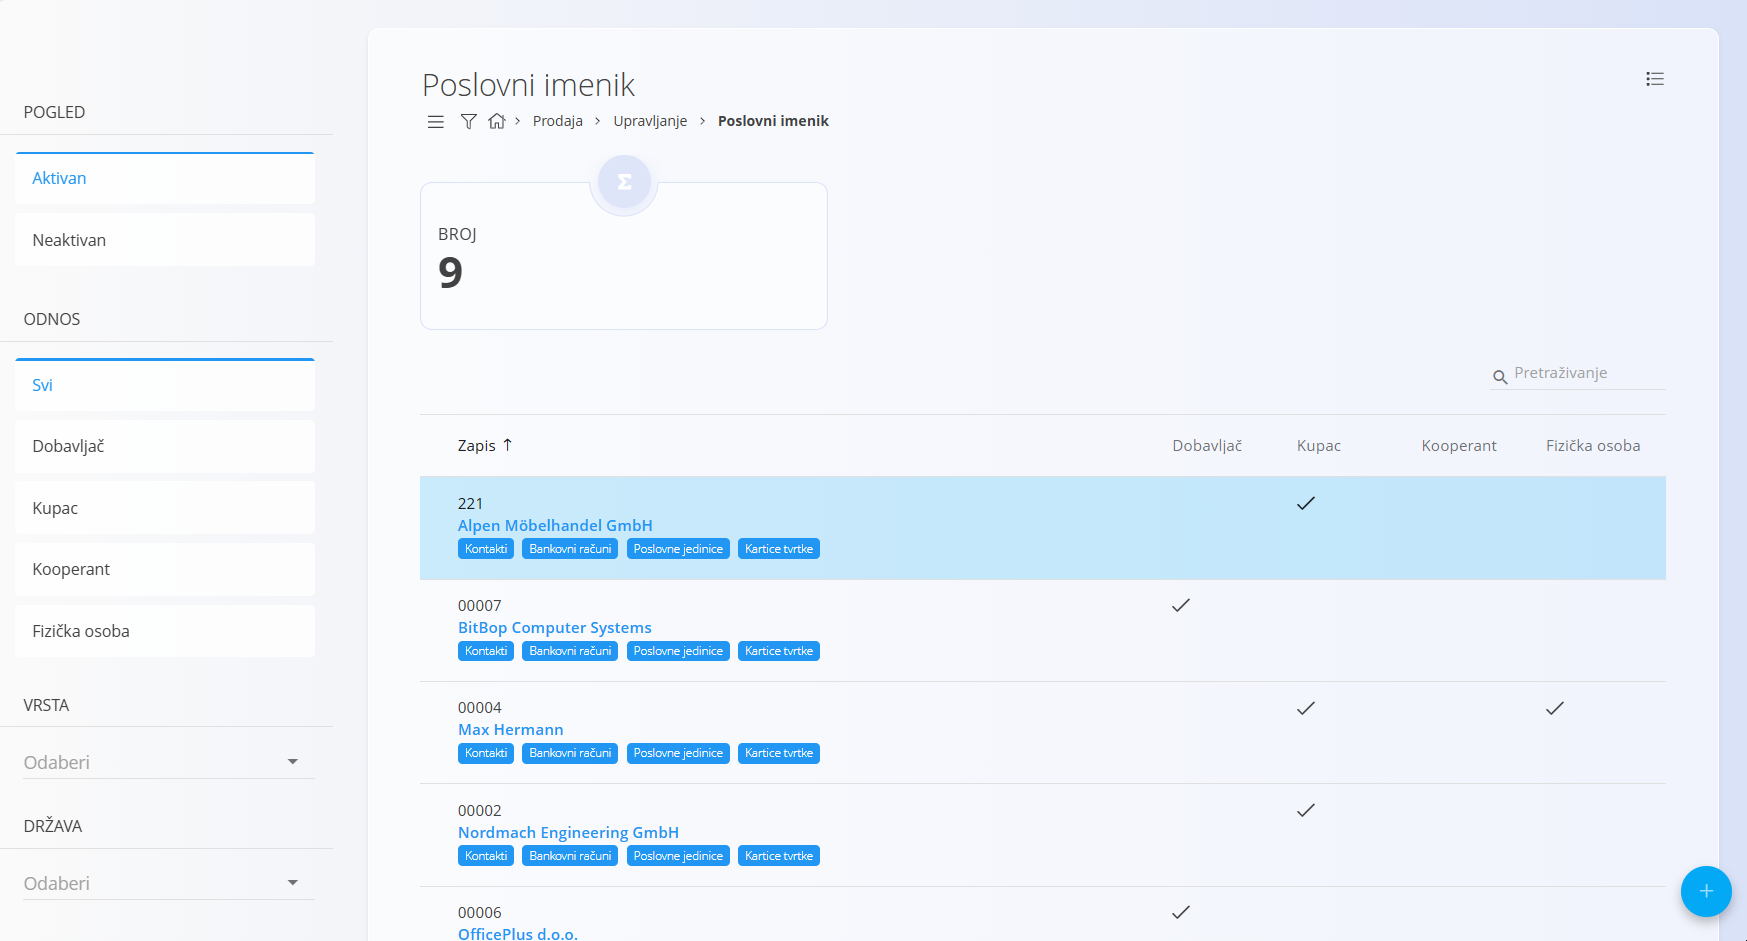
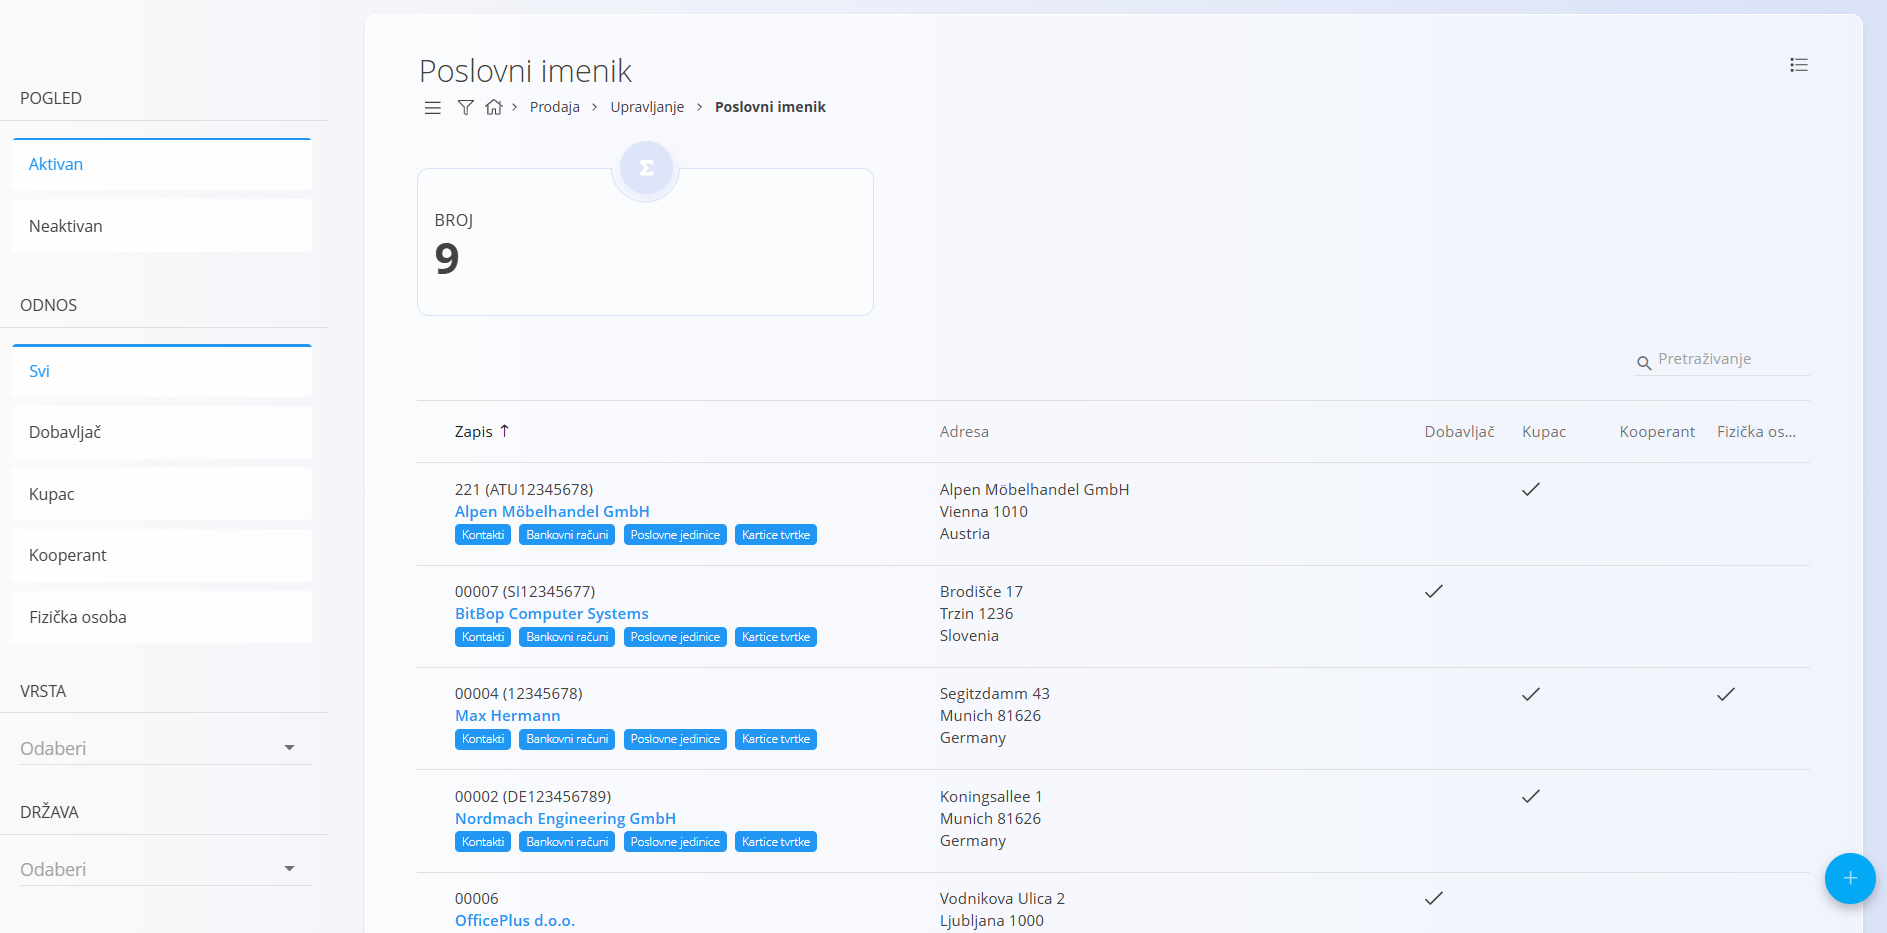
docs(hr): update business directory screenshot and mention address

diff --git a/hr/Zajednicko/Upravljanje/PoslovniImenik.md b/hr/Zajednicko/Upravljanje/PoslovniImenik.md
@@ -47,7 +47,7 @@ Za otvaranje šifrarnika idite na **Upravljanje / Poslovni imenik** u jednoj od 
 
 ### Popis zapisa poslovnog imenika
 
-Korisničko sučelje prikazuje popis svih zapisa poslovnog imenika.
+Korisničko sučelje prikazuje popis svih zapisa poslovnog imenika. Svaki zapis prikazuje broj, naziv i adresu.
 
 ![Poslovni imenik](../Images/BusinessDirectoryHR.png)
 
